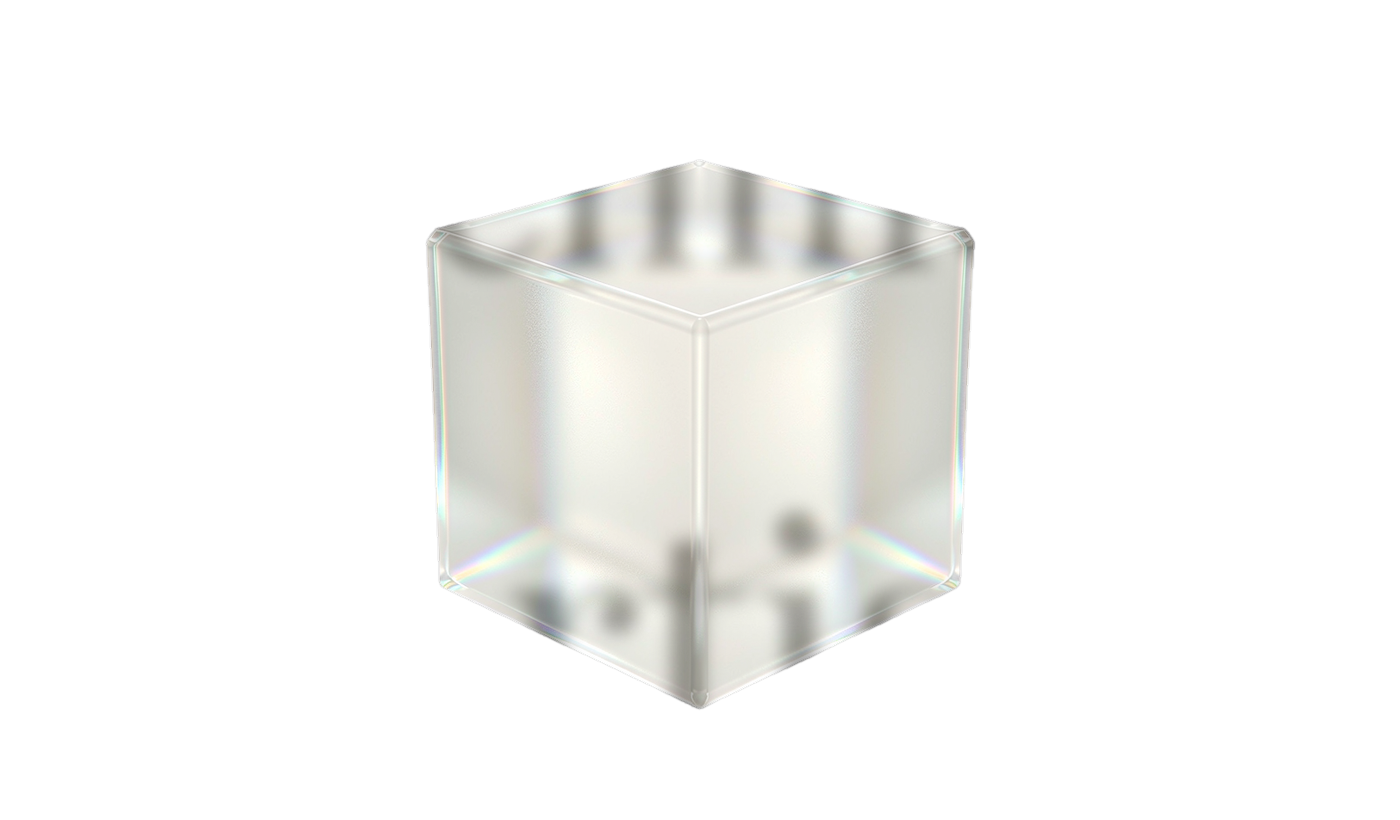
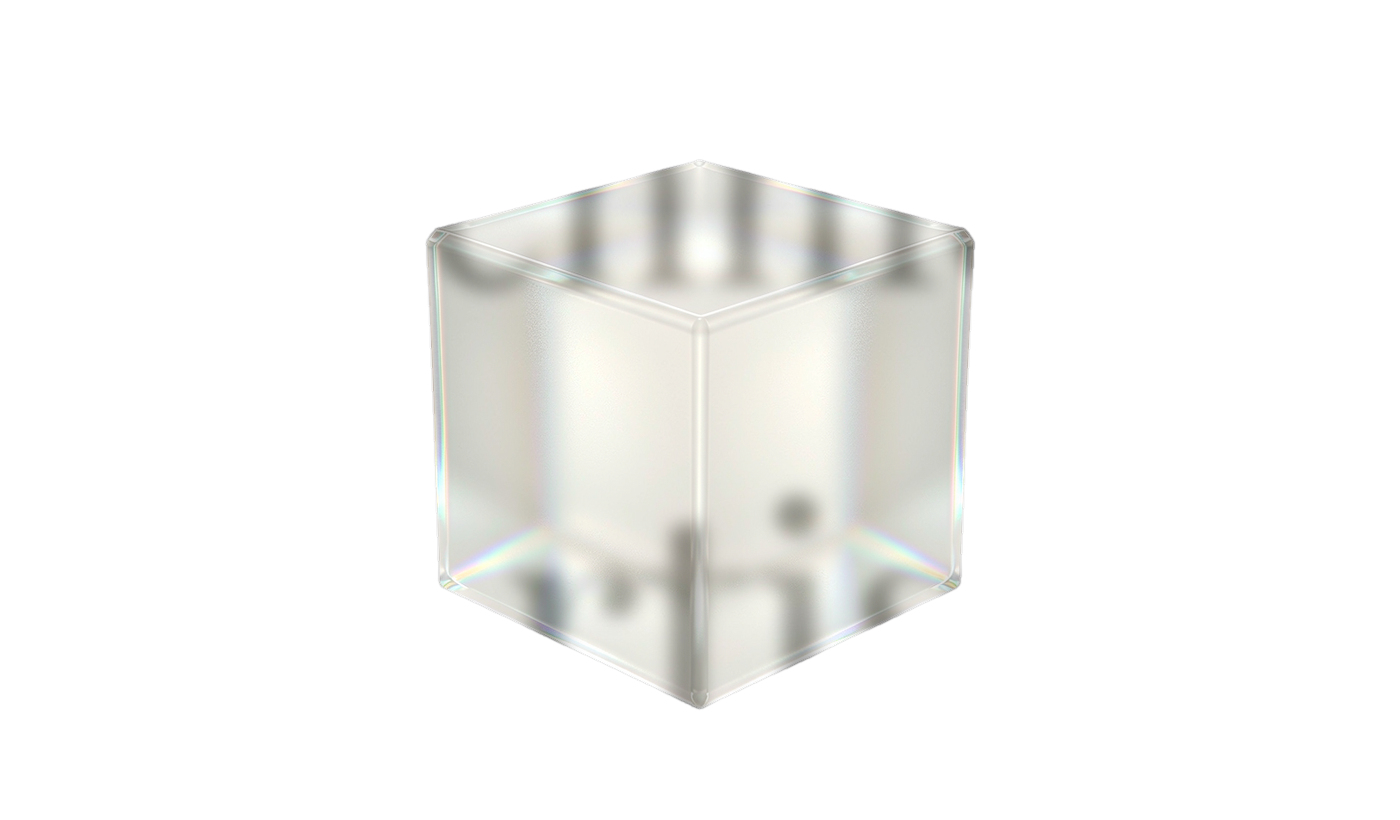
style v33: remove hero cta, pure black content bg, beige accents, left-align projects heading, fix detail hero swap (only pcg), tighten hero type leading

diff --git a/assets/refresh.css b/assets/refresh.css
@@ -2007,3 +2007,53 @@ body {
   background-position: top center !important;
   background-attachment: scroll !important;
 }
+
+/* ============================================================
+   v33 标注修正（2026-11-20 第三轮）
+   ============================================================ */
+/* 1) 首屏「View Selected Work」按钮删除 */
+.ed-hero-on .hero-actions .primary-action,
+.ed-hero-on .hero-actions .secondary-action { display: none !important; }
+
+/* 2) 内容区改回全黑背景（放弃点阵图，hero 首屏保持米黄） */
+body {
+  background-color: #000 !important;
+  background-image: none !important;
+  background-size: auto !important;
+  background-position: top left !important;
+}
+
+/* 3) Selected Projects 标题块向左对齐：取消 eyebrow 右侧列，标题+ASCII 落到容器左侧 */
+.projects-section .section-heading {
+  grid-template-columns: 1fr !important;
+  gap: 16px !important;
+}
+
+/* 4) 米黄呼应：内容区大标题 / eyebrow / ASCII / 亮点行 用首屏米黄色系 */
+section.section h2,
+.section-heading h2,
+.intro-section h2,
+.strengths-section h2 {
+  color: #e8dcc8 !important;
+}
+/* 联系区大标题保持 v31 的纯白 */
+body .contact-inner h2 { color: #ffffff !important; }
+body .eyebrow,
+body .section-heading .eyebrow { color: #c9b998 !important; }
+.section-ascii { color: #b3a685 !important; }
+/* 卡片底部亮点行 + 详情页亮点行：蓝色 -> 米黄（icon 与文字同色继承） */
+.project-impact,
+.article-impact,
+.project-impact span,
+.article-impact span,
+.project-impact svg,
+.project-impact svg *,
+.article-impact svg,
+.article-impact svg * {
+  color: #e3d3a8 !important;
+  stroke: #e3d3a8 !important;
+}
+.project-impact svg path[fill]:not([fill="none"]),
+.article-impact svg path[fill]:not([fill="none"]) { fill: #e3d3a8 !important; }
+/* 详情页 hero eyebrow 也呼应米黄 */
+.article-hero .eyebrow { color: #c9b998 !important; }

diff --git a/assets/refresh.js b/assets/refresh.js
@@ -546,14 +546,23 @@
     document.body.appendChild(el);
   }
 
-  // —— POD FOREST 详情页首图换成图库第 5 张（river-bend.png），幂等 ——
+  // —— POD FOREST 详情页首图换成 river-bend.png（仅限 PCG Forest 详情页），幂等 ——
   function swapPcgHeroImage() {
-    // 详情页首图 + 项目卡封面，都换成 river-bend（河流弯道密林）
+    // 详情页首图：先核验当前文章标题，只有 PCG Forest 才换 ——
+    // 其他项目（Corner Weathering / Undead Emporium / Industrial Ivy）保留各自模块封面
     var hero = document.querySelector(".article-hero .project-preview-image");
-    if (hero && hero.getAttribute("data-pcg-hero-swapped") !== "1") {
-      hero.src = "./assets/pcg/river-bend.png";
-      hero.setAttribute("alt", "河流弯道密林 — PCG 团块散射形成的林缘层次");
-      hero.setAttribute("data-pcg-hero-swapped", "1");
+    if (hero && hero.getAttribute("data-pcg-hero-swapped") !== "1" &&
+        hero.getAttribute("data-pcg-hero-swapped") !== "skip") {
+      var h1 = document.querySelector(".article-hero h1, .article-title-block h1");
+      var isPcg = !!(h1 && h1.textContent.indexOf("PCG Forest") !== -1);
+      if (isPcg) {
+        hero.src = "./assets/pcg/river-bend.png";
+        hero.setAttribute("alt", "河流弯道密林 — PCG 团块散射形成的林缘层次");
+        hero.setAttribute("data-pcg-hero-swapped", "1");
+      } else {
+        // 非 PCG 页打标记防止反复探测
+        hero.setAttribute("data-pcg-hero-swapped", "skip");
+      }
     }
     document.querySelectorAll(".project-card").forEach(function (card) {
       var h = card.querySelector("h3");

diff --git a/index.html b/index.html
@@ -36,7 +36,7 @@
 
     <link rel="stylesheet" crossorigin href="./assets/index-DCW7S8X4.css?v=15">
 
-    <link rel="stylesheet" href="./assets/refresh.css?v=32">
+    <link rel="stylesheet" href="./assets/refresh.css?v=33">
 
   </head>
 
@@ -44,7 +44,7 @@
 
     <div id="root"></div>
 
-    <script src="./assets/refresh.js?v=32"></script>
+    <script src="./assets/refresh.js?v=33"></script>
 
   </body>
 
